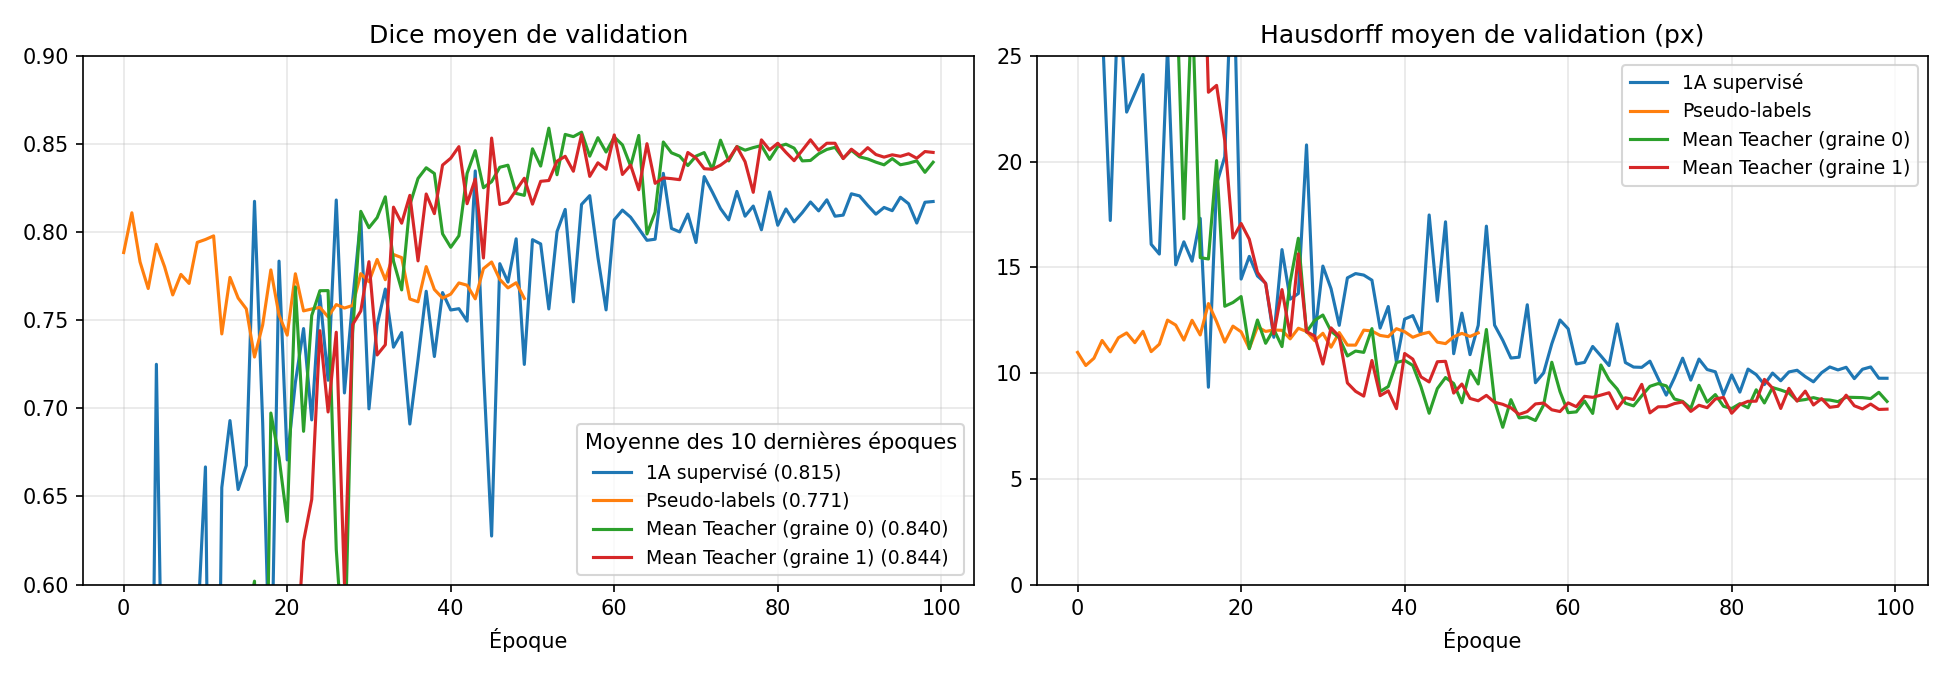
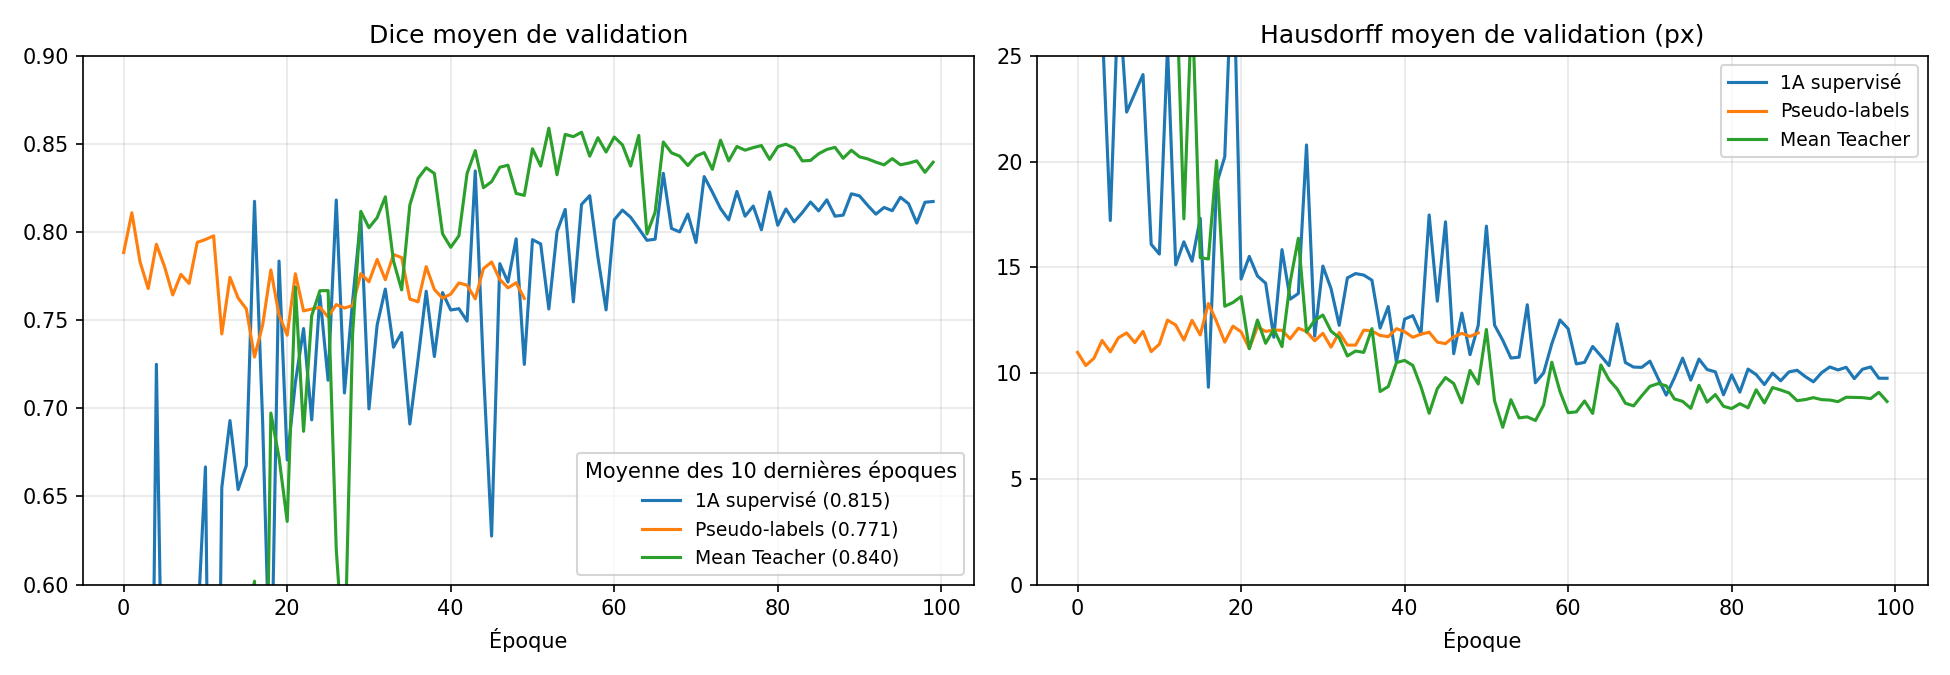
Un seul modèle final, chemins adaptés aux dossiers baseline/ et semi-supervised/

diff --git a/README.md b/README.md
@@ -10,8 +10,8 @@ baseline/          Tâche 1A : baseline supervisée
   UNet_Base_Enes.py, medicalDataLoader_Enes.py, utils_Enes.py, progressBar.py
 semi-supervised/   Tâche 1B : semi-supervisé
   semiSupervised_Enes.ipynb   essai 1 : pseudo-labels
-  meanTeacher_Enes.ipynb      méthode retenue : Mean Teacher (variables SEED, FINAL)
-  predict_Enes.ipynb          évaluation, ensemble, masques PNG (variables MODELS, TEST_DIR)
+  meanTeacher_Enes.ipynb      méthode retenue : Mean Teacher (réglage FINAL)
+  predict_Enes.ipynb          prédiction avec le modèle final, masques PNG (réglage TEST_DIR)
   figures_Enes.ipynb          figures et tableau du rapport
   UNet_Base_Enes.py, medicalDataLoader_Enes.py, utils_Enes.py, progressBar.py
 ```
@@ -27,13 +27,15 @@ Les `.py` sont copiés dans chaque dossier pour que chaque partie soit autonome.
 
 ## Lancer
 
-Les données sont dans `../Data/` en local (sur Kaggle, le chemin est choisi automatiquement).
+Les données sont dans `Data/`, à côté du dossier `HeartBeat-Net` (sur Kaggle, le chemin est choisi automatiquement). Chaque notebook se lance depuis son dossier.
 
-1. `mainSegmentationChallenge_Enes.ipynb` → `models/final_dice/`
-2. `semiSupervised_Enes.ipynb` → `models/pseudo_labels/` (a besoin du modèle 1A)
-3. `meanTeacher_Enes.ipynb` avec `SEED=0` puis `SEED=1` → `models/mean_teacher_w10_seed*/`
-4. Modèles finaux : `meanTeacher_Enes.ipynb` avec `FINAL=1` et `SEED=0,1,2` (train + val) → `models/final_seed*/`
-5. Test : dans `predict_Enes.ipynb`, `MODELS=models/final_seed0/last.pth,models/final_seed1/last.pth,models/final_seed2/last.pth` et `TEST_DIR=<dossier des images>` → `predictions_test.zip`
+1. `baseline/mainSegmentationChallenge_Enes.ipynb` → `baseline/models/final_dice/`
+2. `semi-supervised/semiSupervised_Enes.ipynb` → `models/pseudo_labels/` (utilise le modèle de la baseline)
+3. `semi-supervised/meanTeacher_Enes.ipynb`
+   - `FINAL = False` : entraînement sur train, évaluation sur val → `models/mean_teacher/` (comparaison du rapport)
+   - `FINAL = True` : entraînement sur train + val → `models/mean_teacher_final/` (**modèle rendu**)
+4. `semi-supervised/predict_Enes.ipynb` : mettre `TEST_DIR` sur le dossier des images de test → masques PNG (0, 85, 170, 255) et `predictions_test.zip`
+5. `semi-supervised/figures_Enes.ipynb` : figures et tableau du rapport
 
 ## Résultats (validation, 74 images)
 
@@ -43,6 +45,6 @@ Les données sont dans `../Data/` en local (sur Kaggle, le chemin est choisi aut
 | Pseudo-labels | 0.771 | 0.807 | 14.6 / 14.0 / 5.8 |
 | Mean Teacher, graine 0 | 0.840 | 0.839 | 14.3 / 9.2 / 4.9 |
 | Mean Teacher, graine 1 | 0.844 | 0.847 | 12.7 / 8.1 / 4.2 |
-| Ensemble Mean Teacher | — | 0.848 | 12.9 / 8.3 / 4.3 |
 
-Soumission : ensemble des 3 Mean Teacher entraînés sur train + val.
+Deux graines ont été testées pour vérifier que le gain de Mean Teacher est reproductible.
+Modèle rendu : un seul Mean Teacher (graine 0) ré-entraîné sur train + val (`models/mean_teacher_final/last.pth`).
